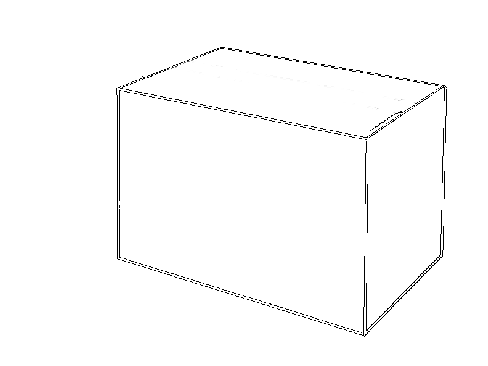
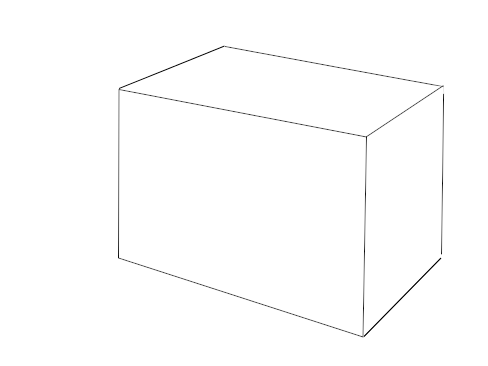
more optimization + added a hand drawn image for the normalization process of model

diff --git a/server_python/alignImages.py b/server_python/alignImages.py
@@ -17,7 +17,7 @@ def alignImages(img, img2):
     img2 = cv.resize(img2,(80,60))
     rows,cols = img.shape
 
-    corners2 = cv.goodFeaturesToTrack(img2,225,0.01,10)
+    corners2 = cv.goodFeaturesToTrack(img2,525,0.01,10)
     global n2
     n2 = np.squeeze(np.asarray(corners2))
 
@@ -35,12 +35,12 @@ def alignImages(img, img2):
         dH = np.max(np.array([np.max(np.min(D_mat,axis=0)),np.max(np.min(D_mat,axis=1))]))
         return(dH)
 
-    for i in range(0, 120):
-        for j in range(0, 90):
-                M = np.float32([[1,0,i-60],[0,1,j-45]])
+    for i in range(0, 40):
+        for j in range(0, 30):
+                M = np.float32([[1,0,i-20],[0,1,j-15]])
                 dst = cv.warpAffine(img,M,(cols,rows))
         
-                corners = cv.goodFeaturesToTrack(dst,225,0.01,10)
+                corners = cv.goodFeaturesToTrack(dst,525,0.01,10)
                 n1 = np.squeeze(np.asarray(corners))
                 try:
                    distance = HausdorffDist(n1,n2)
@@ -64,8 +64,8 @@ def alignImages(img, img2):
     # cv.waitKey(0)
     # cv.destroyAllWindows()
 
-    bestX = (bestX -60) * 10
-    bestY = (bestY -45) * 10
+    bestX = (bestX - 20) * 10
+    bestY = (bestY - 15) * 10
     M = np.float32([[1,0,bestX],[0,1,bestY]])
     rows,cols = img_final.shape
     aligned = cv.warpAffine(img_final,M,(cols,rows))

diff --git a/server_python/server.py b/server_python/server.py
@@ -30,7 +30,7 @@ class ImageAnalyser(object):
     ##### Shi Tomasi Corner Detection #####
     #######################################
     global mainImg
-    img = cv2.imread('Edge_Detected_Box_2.png',0)
+    img = cv2.imread('Edge_Detected_Box_3.png',0)
     img = cv2.resize(img,(800,600))
     mainImg = img
     global height
@@ -44,7 +44,7 @@ class ImageAnalyser(object):
     blank.fill(255)
     
     global corners
-    corners = cv2.goodFeaturesToTrack(img,225,0.01,10)
+    corners = cv2.goodFeaturesToTrack(img,525,0.01,10)
     corners = np.int0(corners)
 
     for i in corners:
@@ -81,7 +81,7 @@ class ImageAnalyser(object):
         except:
             aligned = cv2.cvtColor(img2,cv2.COLOR_BGR2GRAY)
 
-        corners2 = cv2.goodFeaturesToTrack(aligned,225,0.01,10)
+        corners2 = cv2.goodFeaturesToTrack(aligned,525,0.01,10)
         corners2 = np.int0(corners2)
 
 # #    for TEST
@@ -106,7 +106,7 @@ class ImageAnalyser(object):
         results = HausdorffDist(n1,n2)
         worstResult = 249
         if results < 100:
-            score = (((250-results)/250)*100) + ((100-results)*1.2) 
+            score = (((250-results)/250)*100) 
         elif  results < worstResult:
             score = ((250-results)/250)*100  
         else:   
